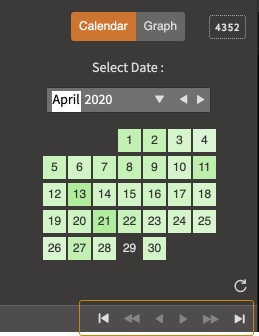
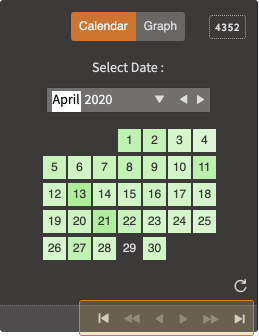
Updated pics and style

Changed region(s): [[0.3089, 0.0, 1.0, 1.0]]

diff --git a/assets/css/styles.css b/assets/css/styles.css
@@ -291,23 +291,18 @@ header > section {
   top: 14px;
 }
 .control-image-container {
-  background: #f8f7f7;
+  background: #ffffff;
   border-radius: 3px;
-  border: 1px solid #e8e8e8;
+  border: 1px solid #c7c7c7;
   text-align: center;
   padding: 10px 10px 5px 10px;
 }
-.control-image-container:hover,
-.history-image-container:hover,
-.drawer-image-container:hover {
-  background-color: #ffffff;
-}
 .history-image-container {
-  background: #f8f7f7;
+  background: #ffffff;
   border-radius: 3px;
-  border: 1px solid #e8e8e8;
+  border: 1px solid #c7c7c7;
   text-align: center;
-  padding: 8px 10px;
+  padding: 5px 10px;
 }
 .drawer-image-container {
   background: #f8f7f7;
